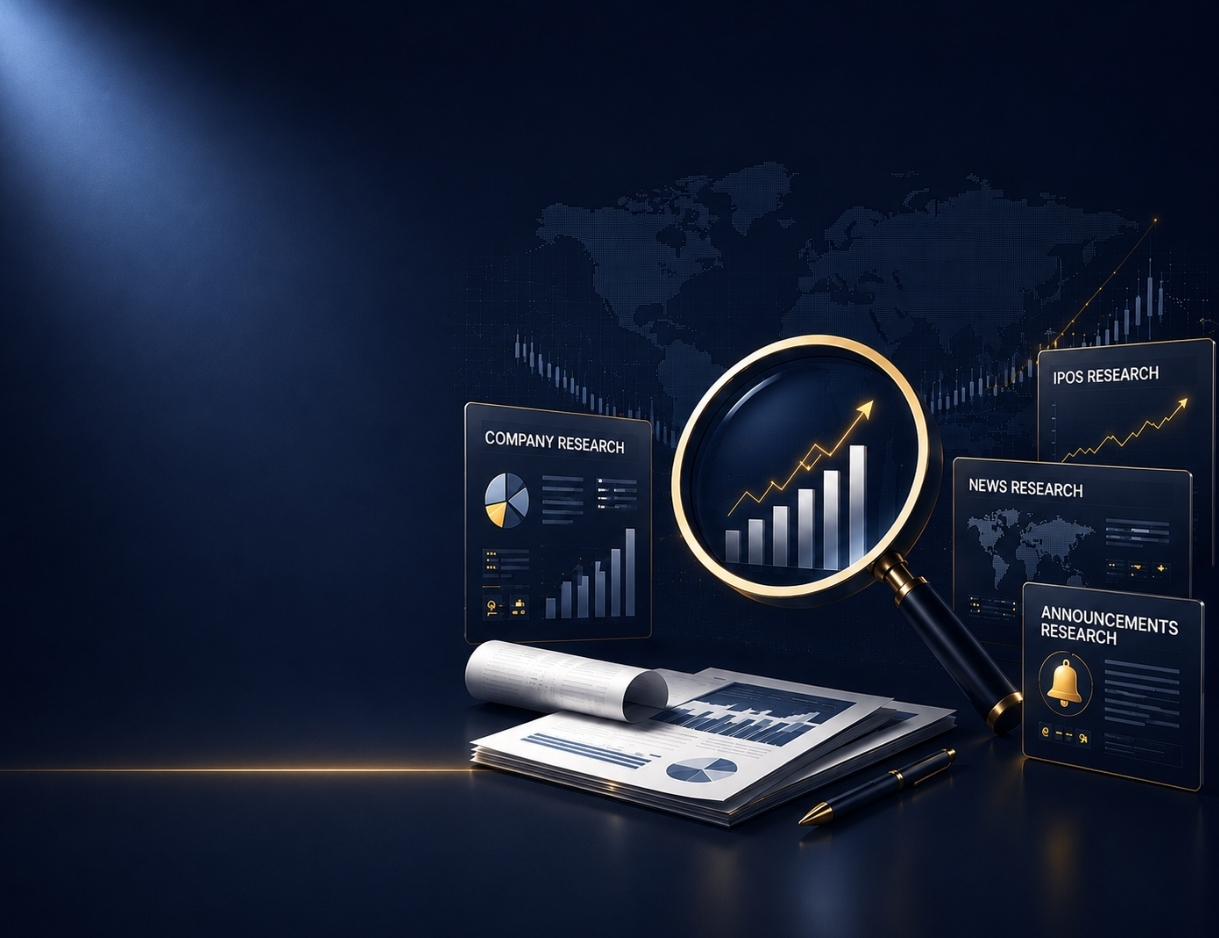
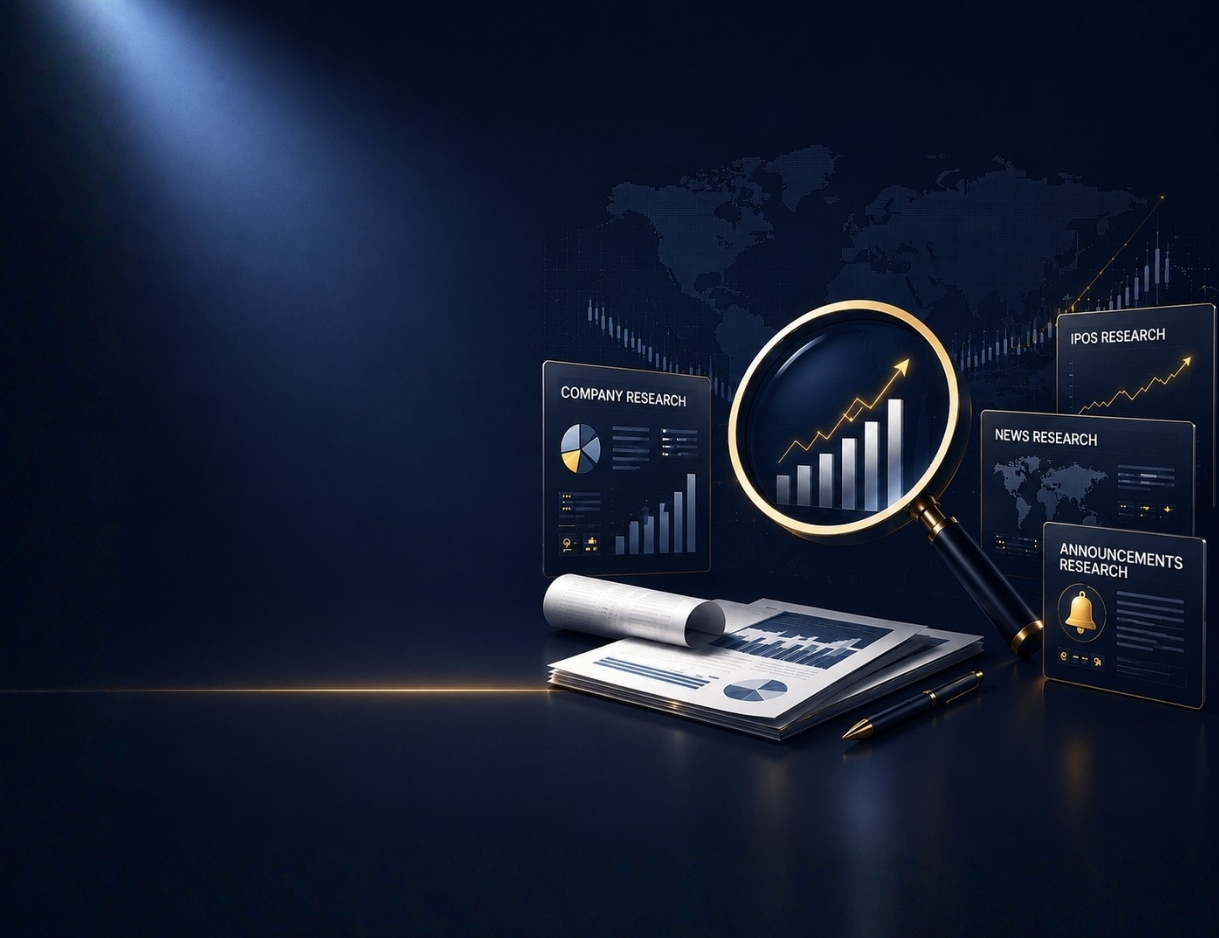
cc

diff --git a/components/partner/PartnerForm.jsx b/components/partner/PartnerForm.jsx
@@ -244,7 +244,7 @@ export default function PartnerForm() {
                 <div className="grid grid-cols-1 sm:grid-cols-2 gap-5">
                   {/* Name Input */}
                   <div className="flex flex-col gap-1">
-                    <div className="flex items-center border border-gray-300 focus-within:border-[#00aeee] focus-within:ring-1 focus-within:ring-[#00aeee] rounded bg-white h-11 transition-colors relative">
+                    <div className="flex items-center border border-gray-300 focus-within:border-[#00aeee] rounded bg-white h-11 transition-colors relative">
                       <div className="absolute left-3.5 text-gray-400 flex items-center justify-center pointer-events-none">
                         <User className="w-4 h-4" />
                       </div>
@@ -268,7 +268,7 @@ export default function PartnerForm() {
 
                   {/* Email ID Input */}
                   <div className="flex flex-col gap-1">
-                    <div className="flex items-center border border-gray-300 focus-within:border-[#00aeee] focus-within:ring-1 focus-within:ring-[#00aeee] rounded bg-white h-11 transition-colors relative">
+                    <div className="flex items-center border border-gray-300 focus-within:border-[#00aeee] rounded bg-white h-11 transition-colors relative">
                       <div className="absolute left-3.5 text-gray-400 flex items-center justify-center pointer-events-none">
                         <Mail className="w-4 h-4" />
                       </div>
@@ -294,7 +294,7 @@ export default function PartnerForm() {
                 <div className="grid grid-cols-1 sm:grid-cols-2 gap-5">
                   {/* Mobile Number Input */}
                   <div className="flex flex-col gap-1">
-                    <div className="flex items-center border border-gray-300 focus-within:border-[#00aeee] focus-within:ring-1 focus-within:ring-[#00aeee] rounded bg-white h-11 transition-colors relative">
+                    <div className="flex items-center border border-gray-300 focus-within:border-[#00aeee] rounded bg-white h-11 transition-colors relative">
                       <div className="absolute left-3.5 text-gray-400 flex items-center justify-center pointer-events-none">
                         <Phone className="w-4 h-4" />
                       </div>
@@ -318,7 +318,7 @@ export default function PartnerForm() {
 
                   {/* Suitable Time Slot (Date & Time Selector) */}
                   <div className="flex flex-col gap-1">
-                    <div className="flex items-center border border-gray-300 focus-within:border-[#00aeee] focus-within:ring-1 focus-within:ring-[#00aeee] rounded bg-white h-11 transition-colors relative">
+                    <div className="flex items-center border border-gray-300 focus-within:border-[#00aeee] rounded bg-white h-11 transition-colors relative">
                       <div className="absolute left-3.5 text-gray-400 flex items-center justify-center pointer-events-none">
                         <Calendar className="w-4 h-4" />
                       </div>
@@ -347,7 +347,7 @@ export default function PartnerForm() {
 
                 {/* Row 3: City Input */}
                 <div className="flex flex-col gap-1">
-                  <div className="flex items-center border border-gray-300 focus-within:border-[#00aeee] focus-within:ring-1 focus-within:ring-[#00aeee] rounded bg-white h-11 transition-colors relative">
+                  <div className="flex items-center border border-gray-300 focus-within:border-[#00aeee] rounded bg-white h-11 transition-colors relative">
                     <div className="absolute left-3.5 text-gray-400 flex items-center justify-center pointer-events-none">
                       <MapPin className="w-4 h-4" />
                     </div>
@@ -374,39 +374,39 @@ export default function PartnerForm() {
                   <label className="block text-xs font-semibold text-gray-700">
                     Interested to become
                   </label>
-                  <div className="flex flex-wrap items-center gap-4 text-xs sm:text-sm text-gray-700">
-                    <label className="flex items-center gap-2 cursor-pointer">
+                  <div className="flex flex-wrap items-center gap-4 text-xs sm:text-sm">
+                    <label className={`flex items-center gap-2 cursor-pointer ${formData.interested === "Sub-Broker" || formData.interested === "Sub broker" ? "text-slate-900 font-semibold" : "text-gray-600"}`}>
                       <input
                         type="radio"
                         name="interested"
                         value="Sub-Broker"
                         checked={formData.interested === "Sub-Broker" || formData.interested === "Sub broker"}
                         onChange={handleChange}
-                        className="accent-[#00aeee] w-4 h-4"
+                        className="accent-black w-4 h-4 cursor-pointer"
                       />
                       <span>Sub broker</span>
                     </label>
 
-                    <label className="flex items-center gap-2 cursor-pointer">
+                    <label className={`flex items-center gap-2 cursor-pointer ${formData.interested === "Business associate" ? "text-slate-900 font-semibold" : "text-gray-600"}`}>
                       <input
                         type="radio"
                         name="interested"
                         value="Business associate"
                         checked={formData.interested === "Business associate"}
                         onChange={handleChange}
-                        className="accent-[#00aeee] w-4 h-4"
+                        className="accent-black w-4 h-4 cursor-pointer"
                       />
                       <span>Business associate</span>
                     </label>
 
-                    <label className="flex items-center gap-2 cursor-pointer">
+                    <label className={`flex items-center gap-2 cursor-pointer ${formData.interested === "Authorized person" ? "text-slate-900 font-semibold" : "text-gray-600"}`}>
                       <input
                         type="radio"
                         name="interested"
                         value="Authorized person"
                         checked={formData.interested === "Authorized person"}
                         onChange={handleChange}
-                        className="accent-[#00aeee] w-4 h-4"
+                        className="accent-black w-4 h-4 cursor-pointer"
                       />
                       <span>Authorized person</span>
                     </label>
@@ -422,7 +422,7 @@ export default function PartnerForm() {
                 <div className="grid grid-cols-1 sm:grid-cols-2 gap-5 items-center pt-2">
                   {/* Enter Captcha Input */}
                   <div className="flex flex-col gap-1">
-                    <div className="flex items-center border border-gray-300 focus-within:border-[#00aeee] focus-within:ring-1 focus-within:ring-[#00aeee] rounded bg-white h-11 transition-colors relative">
+                    <div className="flex items-center border border-gray-300 focus-within:border-[#00aeee] rounded bg-white h-11 transition-colors relative">
                       <div className="absolute left-3.5 text-gray-400 flex items-center justify-center pointer-events-none">
                         <HelpCircle className="w-4 h-4" />
                       </div>

diff --git a/components/contact/form.jsx b/components/contact/form.jsx
@@ -212,7 +212,7 @@ export default function ContactUsPage() {
 
               {/* Department Selector */}
               <div className="flex flex-col gap-1">
-                <div className="relative flex items-center border border-slate-200 rounded-xl bg-slate-50/50 h-12">
+                <div className="relative flex items-center border border-slate-200 focus-within:border-[#00aeee] rounded-xl bg-slate-50/50 h-12 transition-colors">
                   <div className="absolute left-4 text-slate-400 pointer-events-none">
                     <User className="w-5 h-5" />
                   </div>
@@ -220,7 +220,7 @@ export default function ContactUsPage() {
                     name="department"
                     value={formData.department}
                     onChange={handleChange}
-                    className="w-full h-full pl-12 pr-10 text-[15px] text-slate-800 bg-transparent border-none outline-none focus:outline-none focus:ring-0 focus:border-none appearance-none cursor-pointer font-medium"
+                    className="w-full h-full pl-12 pr-10 text-sm sm:text-[15px] text-slate-800 bg-transparent border-none outline-none focus:outline-none focus:ring-0 focus:border-none appearance-none cursor-pointer font-medium"
                   >
                     <option value="" disabled>Department Name</option>
                     <option value="Accounts">Accounts</option>
@@ -245,7 +245,7 @@ export default function ContactUsPage() {
 
               {/* Name Input */}
               <div className="flex flex-col gap-1">
-                <div className="relative flex items-center border border-slate-200 rounded-xl bg-slate-50/50 h-12">
+                <div className="relative flex items-center border border-slate-200 focus-within:border-[#00aeee] rounded-xl bg-slate-50/50 h-12 transition-colors">
                   <div className="absolute left-4 text-slate-400 pointer-events-none">
                     <User className="w-5 h-5" />
                   </div>
@@ -270,7 +270,7 @@ export default function ContactUsPage() {
 
               {/* Email Input */}
               <div className="flex flex-col gap-1">
-                <div className="relative flex items-center border border-slate-200 rounded-xl bg-slate-50/50 h-12">
+                <div className="relative flex items-center border border-slate-200 focus-within:border-[#00aeee] rounded-xl bg-slate-50/50 h-12 transition-colors">
                   <div className="absolute left-4 text-slate-400 pointer-events-none">
                     <Mail className="w-5 h-5" />
                   </div>
@@ -292,7 +292,7 @@ export default function ContactUsPage() {
 
               {/* Mobile Number Input */}
               <div className="flex flex-col gap-1">
-                <div className="relative flex items-center border border-slate-200 rounded-xl bg-slate-50/50 h-12">
+                <div className="relative flex items-center border border-slate-200 focus-within:border-[#00aeee] rounded-xl bg-slate-50/50 h-12 transition-colors">
                   <div className="absolute left-4 text-slate-400 pointer-events-none">
                     <Phone className="w-5 h-5" />
                   </div>
@@ -316,7 +316,7 @@ export default function ContactUsPage() {
 
             {/* Subject Input */}
             <div className="flex flex-col gap-1">
-              <div className="relative flex items-center border border-slate-200 rounded-xl bg-slate-50/50 h-12">
+              <div className="relative flex items-center border border-slate-200 focus-within:border-[#00aeee] rounded-xl bg-slate-50/50 h-12 transition-colors">
                 <div className="absolute left-4 text-slate-400 pointer-events-none">
                   <Info className="w-5 h-5" />
                 </div>
@@ -338,7 +338,7 @@ export default function ContactUsPage() {
 
             {/* Details Textarea */}
             <div className="flex flex-col gap-1">
-              <div className="relative flex items-start border border-slate-200 rounded-xl bg-slate-50/50 min-h-[120px]">
+              <div className="relative flex items-start border border-slate-200 focus-within:border-[#00aeee] rounded-xl bg-slate-50/50 min-h-[120px] transition-colors">
                 <div className="absolute left-4 top-3.5 text-slate-400 pointer-events-none">
                   <FileText className="w-5 h-5" />
                 </div>
@@ -361,7 +361,7 @@ export default function ContactUsPage() {
             {/* Captcha Section */}
             <div className="grid grid-cols-1 sm:grid-cols-2 gap-5 items-center">
               <div className="flex flex-col gap-1">
-                <div className="relative flex items-center border border-slate-200 rounded-xl bg-slate-50/50 h-12">
+                <div className="relative flex items-center border border-slate-200 focus-within:border-[#00aeee] rounded-xl bg-slate-50/50 h-12 transition-colors">
                   <div className="absolute left-4 text-slate-400 pointer-events-none">
                     <HelpCircle className="w-5 h-5" />
                   </div>

diff --git a/app/research/[section]/ResearchSectionClient.jsx b/app/research/[section]/ResearchSectionClient.jsx
@@ -303,7 +303,7 @@ export default function ResearchSectionClient({
                         setSearchTerm(e.target.value);
                         setCurrentPage(1);
                       }}
-                      className="w-full pl-10 pr-10 py-2 border border-border rounded-md text-sm placeholder:text-muted-foreground focus:outline-none focus:ring-2 focus:ring-primary focus:border-primary transition-all bg-muted/20 focus-visible:ring-2"
+                      className="w-full pl-10 pr-10 py-2 border border-border rounded-md text-sm placeholder:text-muted-foreground outline-none focus:outline-none focus-visible:outline-none focus:ring-0 focus:border-[#00aeee] transition-all bg-muted/20"
                     />
                     {searchTerm && (
                       <button
@@ -335,7 +335,7 @@ export default function ResearchSectionClient({
                         setSelectedFY(e.target.value);
                         setCurrentPage(1);
                       }}
-                      className="bg-white border border-border rounded-md px-3 py-1.5 text-sm font-semibold focus:outline-none focus:ring-2 focus:ring-primary focus:border-primary cursor-pointer hover:border-gray-400 transition-colors focus-visible:ring-2"
+                      className="bg-white border border-border rounded-md px-2.5 sm:px-3 py-1 sm:py-1.5 text-xs sm:text-sm font-semibold outline-none focus:outline-none focus-visible:outline-none focus:ring-0 focus:border-[#00aeee] cursor-pointer hover:border-gray-400 transition-colors"
                     >
                       <option value="all">All Years</option>
                       {availableFYs.map((fy) => (
@@ -361,7 +361,7 @@ export default function ResearchSectionClient({
                         setSortBy(e.target.value);
                         setCurrentPage(1);
                       }}
-                      className="bg-white border border-border rounded-md px-3 py-1.5 text-sm font-semibold focus:outline-none focus:ring-2 focus:ring-primary focus:border-primary cursor-pointer hover:border-gray-400 transition-colors focus-visible:ring-2"
+                      className="bg-white border border-border rounded-md px-2.5 sm:px-3 py-1 sm:py-1.5 text-xs sm:text-sm font-semibold outline-none focus:outline-none focus-visible:outline-none focus:ring-0 focus:border-[#00aeee] cursor-pointer hover:border-gray-400 transition-colors"
                     >
                       <option value="date-desc">Date (Newest)</option>
                       <option value="date-asc">Date (Oldest)</option>

diff --git a/components/layout/Header.js b/components/layout/Header.js
@@ -322,7 +322,7 @@ export default function Header() {
                           <button
                             key={link.label}
                             onClick={() => setBackofficeModalOpen(true)}
-                            className="w-full text-left block px-4 py-2.5 text-sm text-foreground hover:text-primary hover:bg-muted/50 transition-colors"
+                            className="w-full text-left block rounded-lg px-4 py-3 text-sm text-foreground hover:bg-secondary-light transition-colors duration-200"
                           >
                             {link.label}
                           </button>
@@ -333,7 +333,7 @@ export default function Header() {
                           <button
                             key={link.label}
                             onClick={() => setChooseAppModalOpen(true)}
-                            className="w-full text-left block px-4 py-2.5 text-sm text-foreground hover:text-primary hover:bg-muted/50 transition-colors"
+                            className="w-full text-left block rounded-lg px-4 py-3 text-sm text-foreground hover:bg-secondary-light transition-colors duration-200"
                           >
                             {link.label}
                           </button>
@@ -341,13 +341,13 @@ export default function Header() {
                       }
                       if (link.external) {
                         return (
-                          <a key={link.href} href={link.href} target="_blank" rel="noopener noreferrer" className="block px-4 py-2.5 text-sm text-foreground hover:text-primary hover:bg-muted/50 transition-colors">
+                          <a key={link.href} href={link.href} target="_blank" rel="noopener noreferrer" className="block rounded-lg px-4 py-3 text-sm text-foreground hover:bg-secondary-light transition-colors duration-200">
                             {link.label}
                           </a>
                         );
                       }
                       return (
-                        <Link key={link.href} href={link.href} className="block px-4 py-2.5 text-sm text-foreground hover:text-primary hover:bg-muted/50 transition-colors">
+                        <Link key={link.href} href={link.href} className="block rounded-lg px-4 py-3 text-sm text-foreground hover:bg-secondary-light transition-colors duration-200">
                           {link.label}
                         </Link>
                       );

diff --git a/app/partner-with-us/page.jsx b/app/partner-with-us/page.jsx
@@ -12,13 +12,13 @@ export const metadata = generatePageMetadata({
 export default function PartnerWithUsPage() {
   return (
     <main className="bg-background min-h-screen">
-  
- <HeroSection
+      <HeroSection
         title="Partner With Us"
         breadcrumbs={[{ label: "Partner With Us" }]}
         image="/images/about/AboutUs-Ratnakarsec.png"
         mobileImage="/images/about/mobile banner/investor mobile.jpg"
-        height="h-[300px] md:h-[400px]" />
+        height="h-[300px] md:h-[400px]"
+      />
       {/* Form & Content Section */}
       <section className="py-6 md:py-12">
         <PartnerForm />
